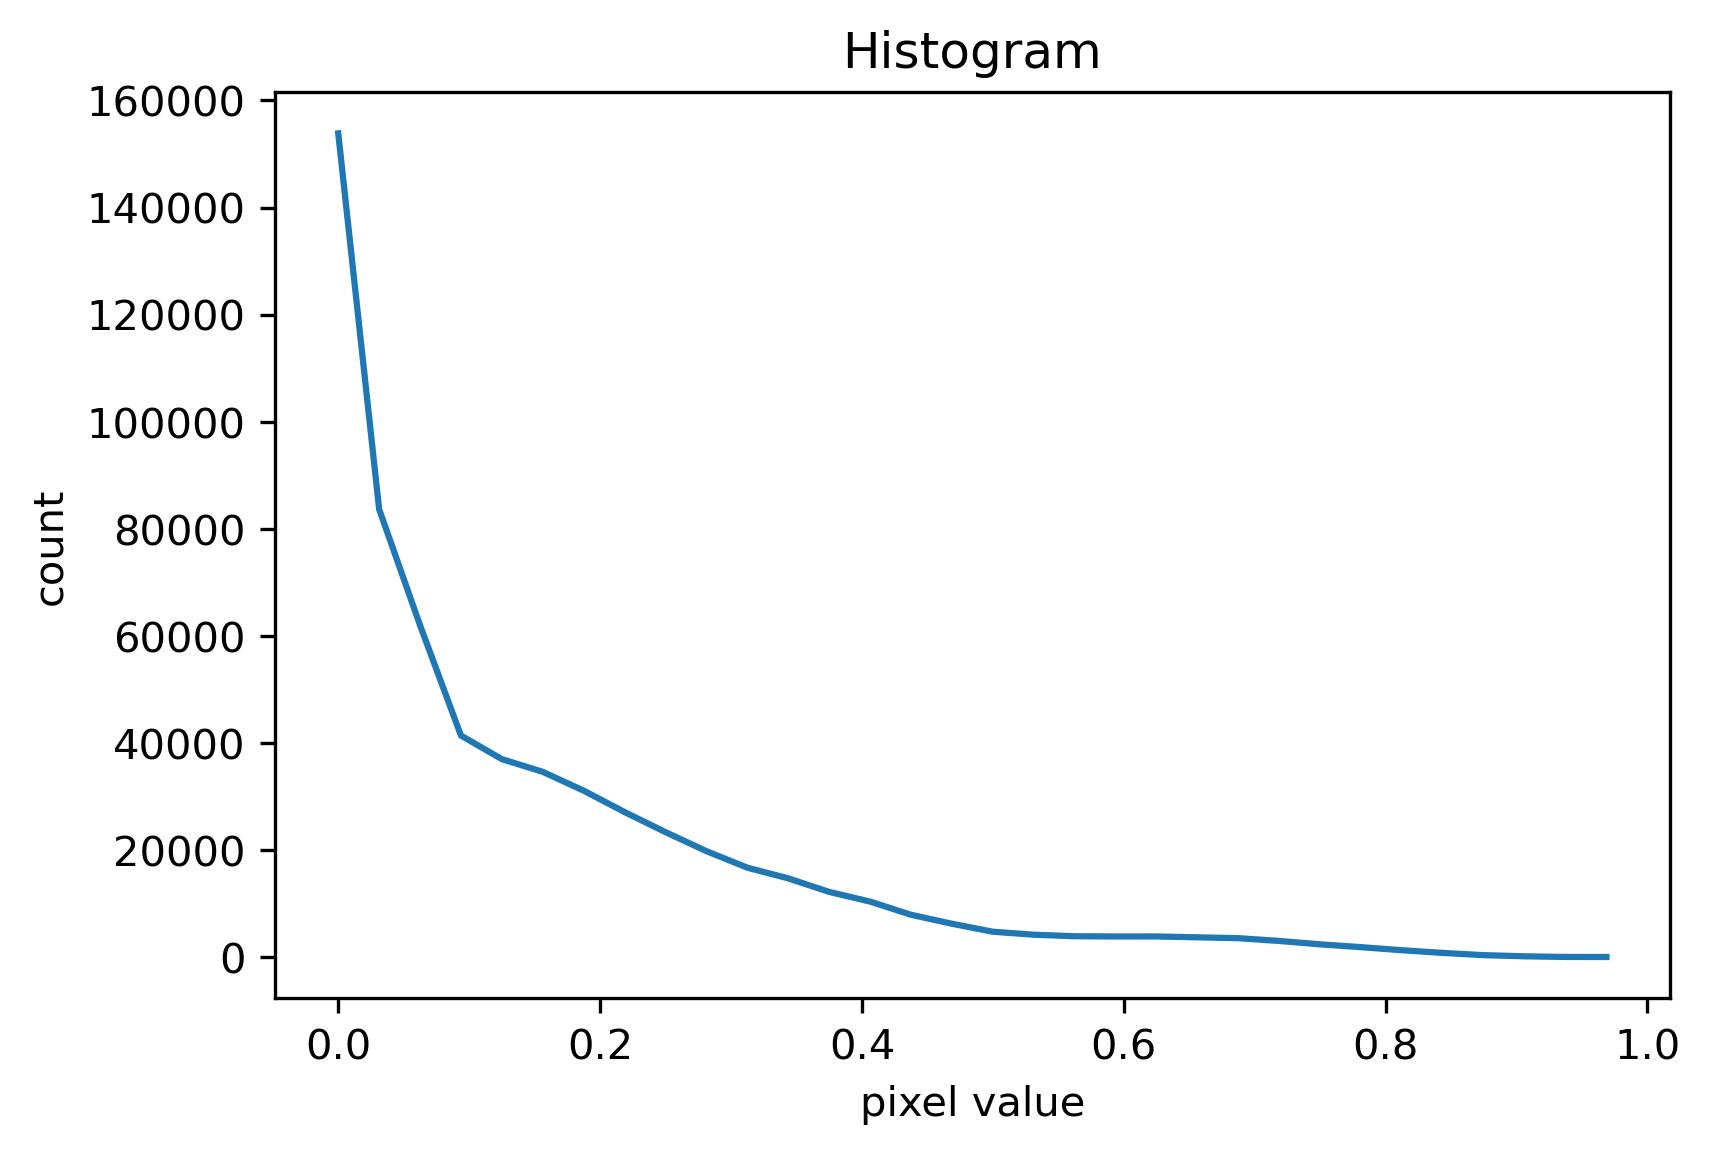
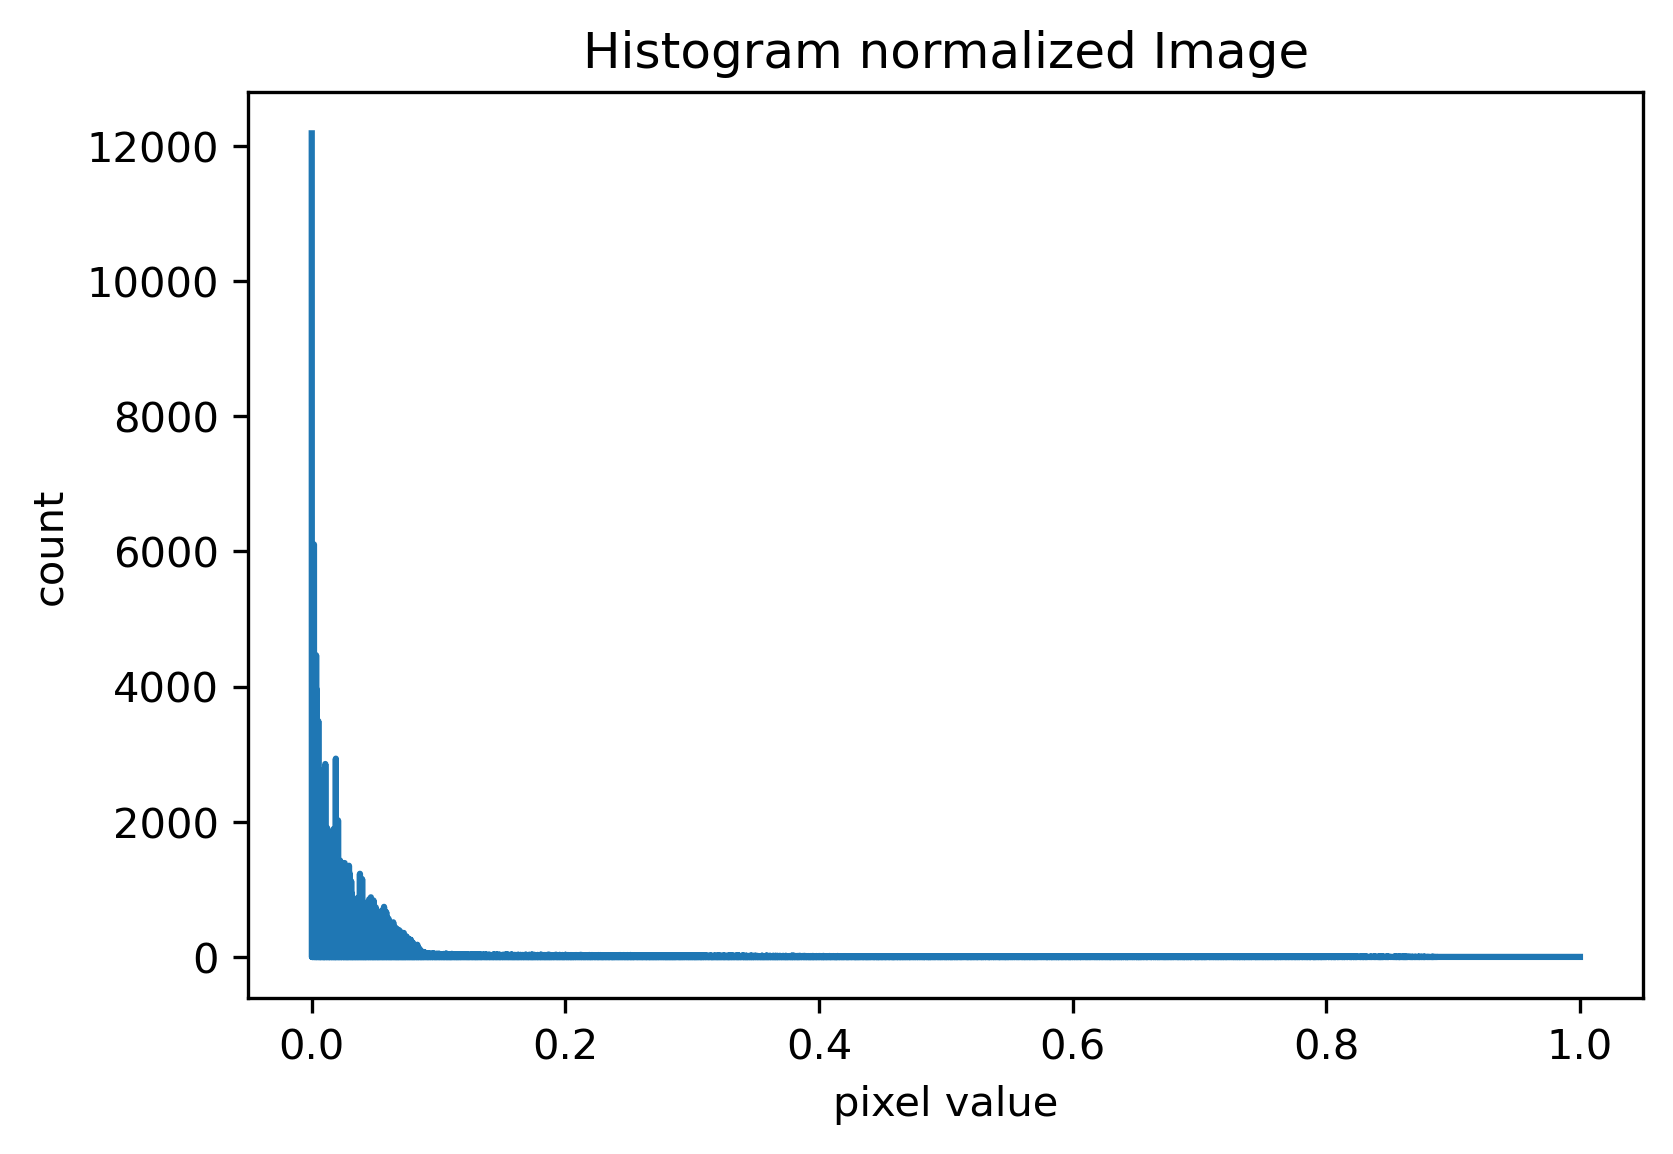
histogram

diff --git a/1. Exercise/FCNs_1_2.py b/1. Exercise/FCNs_1_2.py
@@ -24,10 +24,10 @@ def display_Histogram(img,bits):
     plt.savefig('Histogram'+str(bits)+'.png', dpi=300, bbox_inches='tight')
 
 def display_norm_Hisogram (img):
-    histogram, bin_edges = np.histogram(img, bins=2*16, range=(0, 1))
+    histogram, bin_edges = np.histogram(img, bins=2**16, range=(0, 1))
     # configure and draw the histogram figure
     plt.figure()
-    plt.title("Histogram")
+    plt.title("Histogram normalized Image")
     plt.xlabel("pixel value")
     plt.ylabel("count")  
     plt.plot(bin_edges[0:-1], histogram)
@@ -93,18 +93,10 @@ def Neighborhood(PixelX,PixelY,img):
     selected_image = cv2.rectangle(img, start_point, end_point, color, thickness)
     # Displaying the image 
     cv2.imwrite('Area_of_interest.tif', selected_image)
-    
-    #standard_dev = np.std(selected_image)
-    #mean1 = no.mean(selected_image)
-    
-   
-   #img8 = np.uint8(selected_image*255)
   
     img_crop = img [(PixelX-10):(PixelY+11),(PixelY-10):(PixelY+11)] 
     cv2.imwrite('2.4_Area_of_interest_with_rectangle.tif', selected_image)
     cv2.imwrite('2.4_Area_of_interest_21x21.tif', img_crop)
-    
-   # img_crop = selected_image.crop(PixelX-10, PixelY+10, PixelX-10, PixelY+10)
     
     mean, std = cv2.meanStdDev(img_crop)
     
@@ -112,8 +104,13 @@ def Neighborhood(PixelX,PixelY,img):
     print("Standard deviation of the selected area is: ", std)
     print("Mean value of the selected area is: ", mean)
 
-    
-   # return selected_image
-    #return mean
-    #return std
+    histogram, bin_edges = np.histogram(img_crop, bins=2**16, range=(0, 20000))
+      # configure and draw the histogram figure
+    plt.figure()
+    plt.title("Histogram crop 21x21")
+    plt.xlabel("pixel value")
+    plt.ylabel("count")  
+    plt.plot(bin_edges[0:-1], histogram)
+    plt.savefig('Histogram_crop_21x21.png', dpi=300, bbox_inches='tight')
+   
     return img_crop
